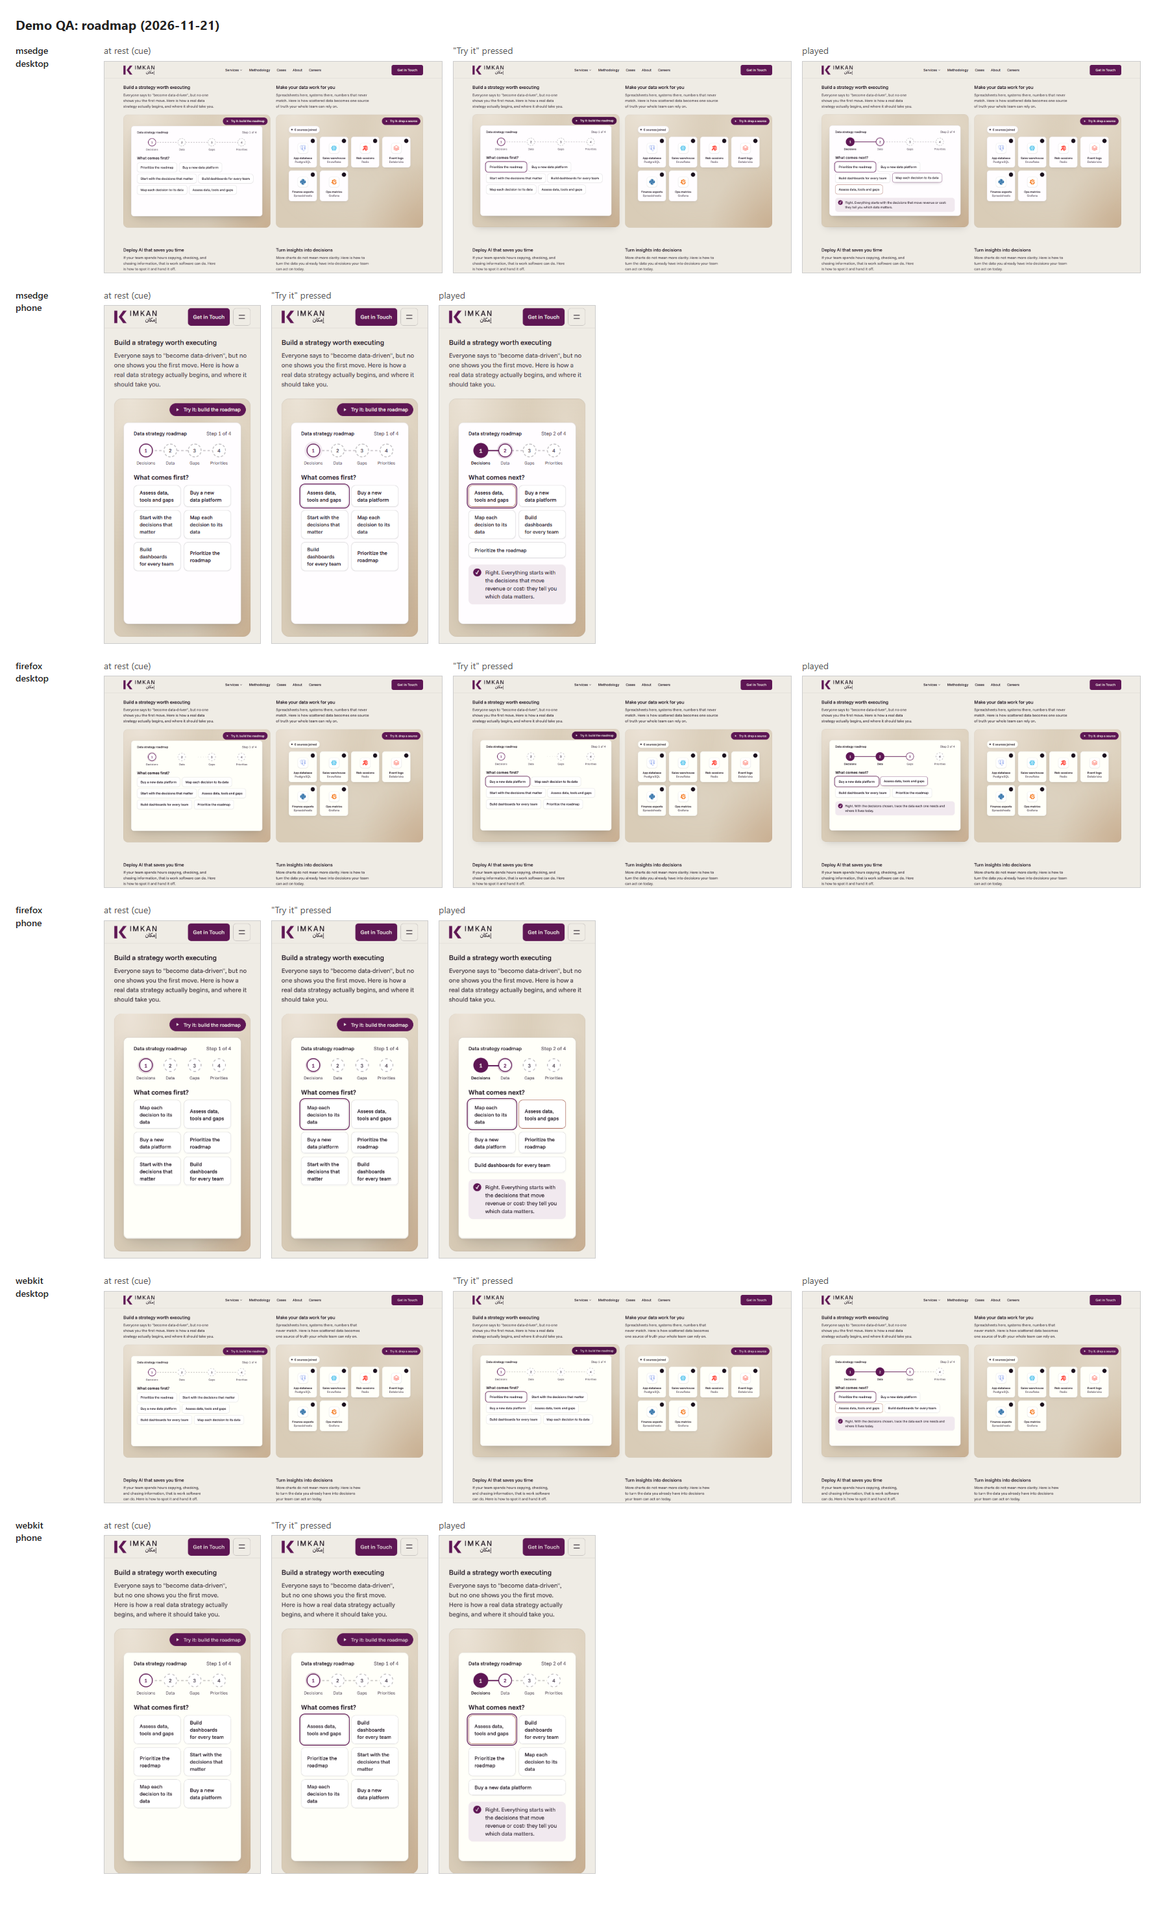
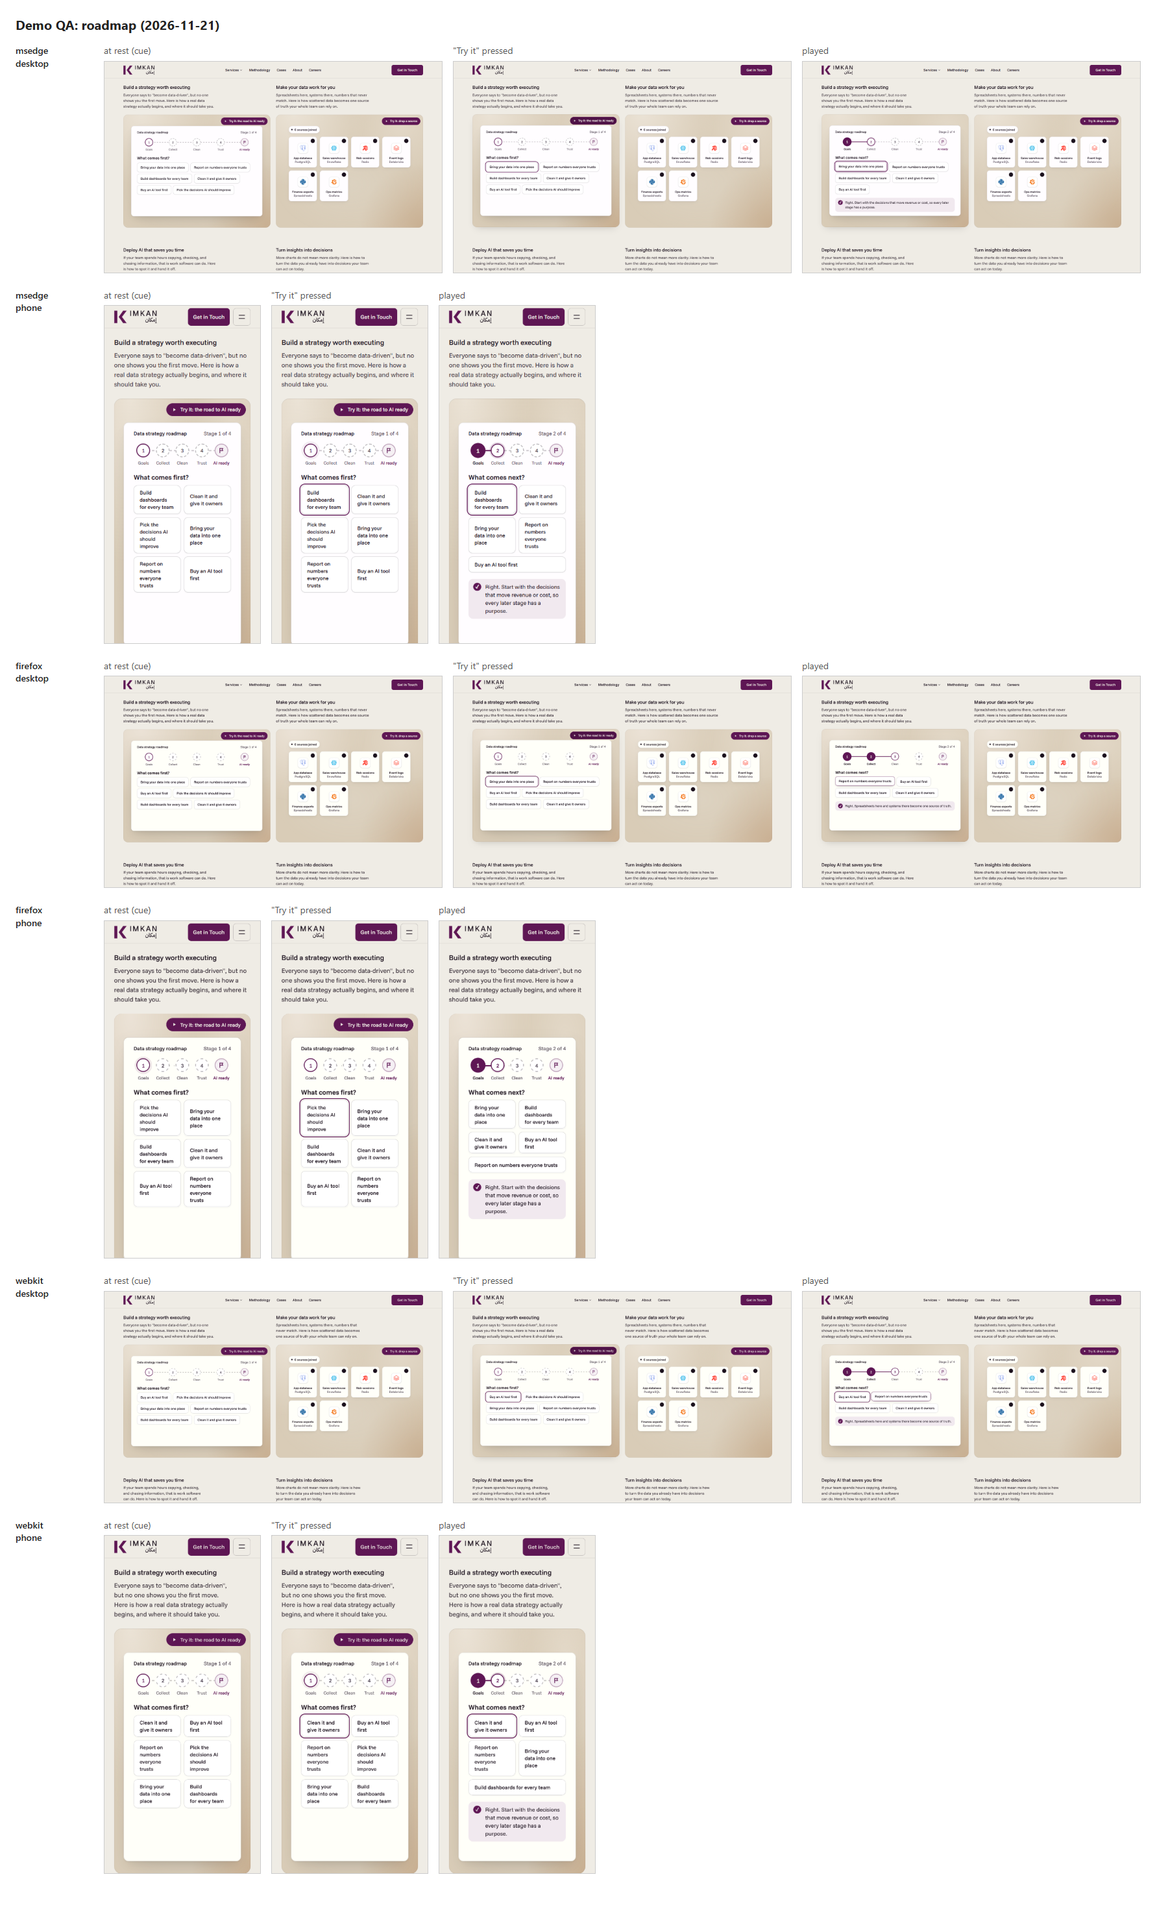
feat(demos): fraud steps take 2 s; roadmap game on the road to AI ready (D-033)
- Fraud: 2 s a step; bar, seconds, total, chip and statuses on one clock.
- Roadmap game: the stages of data maturity before "AI ready" (Goals,
  Collect, Clean, Trust), ending at a fixed AI-ready flag; traps "Buy an AI
  tool first" and "Build dashboards for every team". Wording 113 to 115.

diff --git a/site/public/scripts/play/roadmap.js b/site/public/scripts/play/roadmap.js
@@ -1,34 +1,45 @@
 // "Build a strategy worth executing", round 4 (Felipe, 2026-11-21: "make it a fun exercise ... connect different
 // activities to the right order in the roadmap, so they can learn what things should go first and why").
-// A small game: four empty stops on a track, six activity cards (the page's four steps and two traps). The prompt
+// A small game: four empty stops on a track that ends at "AI ready", six cards (four stages and two traps). The prompt
 // asks what comes first, then next; a right card flies to its stop and the track fills; a wrong one shakes and stays,
 // a trap is ruled out. Every pick gets a one-line reason. Four stops filled: "Roadmap complete", in how many picks,
 // and "Play again". The card never changes height: a card that leaves the tray keeps its place.
-// Without scripts the kit's checklist shows as before. The four steps are the page's own; every other word is a
+// Without scripts the kit's checklist shows as before. The title is the page's own; every other word is a
 // TODO(wording) proposal, pending Felipe.
 import { own, cue, reduced } from './lib.js';
 
-// TODO(wording): proposed, pending Felipe (the step labels are read from the page)
+// The stages of data maturity on the way to "AI ready" (Felipe, 2026-11-21: "what you need to do before getting to
+// AI ready, all the things that need to happen before that, in order"). The track ends at a fixed flag, AI ready.
+// TODO(wording): proposed, pending Felipe
 const STEPS = [
-  { short: 'Decisions', right: 'Right. Everything starts with the decisions that move revenue or cost: they tell you which data matters.' },
-  { short: 'Data', right: 'Right. With the decisions chosen, trace the data each one needs and where it lives today.', early: 'Not yet. You cannot map data to decisions you have not chosen.' },
-  { short: 'Gaps', right: 'Right. Now check that data: its quality, who can reach it and which tools are missing.', early: 'Not yet. Check the data once you know which data each decision needs.' },
-  { short: 'Priorities', right: 'Right. With the gaps known, rank the work by impact and effort, and pick your first move.', early: 'Not yet. Rank the work once you know the gaps and what it takes to close them.' },
+  { short: 'Goals', label: 'Pick the decisions AI should improve',
+    right: 'Right. Start with the decisions that move revenue or cost, so every later stage has a purpose.' },
+  { short: 'Collect', label: 'Bring your data into one place',
+    right: 'Right. Spreadsheets here and systems there become one source of truth.',
+    early: 'Not yet. Choose the decisions first, so you know which data to bring together.' },
+  { short: 'Clean', label: 'Clean it and give it owners',
+    right: 'Right. AI learns from your data, so it has to be accurate, complete and looked after by someone.',
+    early: 'Not yet. Clean the data once it sits in one place, or you clean it twice.' },
+  { short: 'Trust', label: 'Report on numbers everyone trusts',
+    right: 'Right. When the team trusts the reports, the data is ready to learn from. You are AI ready.',
+    early: 'Not yet. Reports on data nobody has checked only spread its mistakes.' },
 ];
 const TRAPS = [
-  { label: 'Buy a new data platform', why: 'Not a first step. A tool comes after you know the decisions and data it has to serve.' },
+  { label: 'Buy an AI tool first', why: 'Not a first step. A tool cannot fix data you have not collected or cleaned.' },
   { label: 'Build dashboards for every team', why: 'Not a step. More charts do not mean more clarity: start from the decisions they should support.' },
 ];
+const N = STEPS.length;
 const T = {
-  invite: 'Try it: build the roadmap',
+  invite: 'Try it: the road to AI ready',
   first: 'What comes first?',
   next: 'What comes next?',
-  of: (n) => `Step ${n} of 4`,
-  done: 'Roadmap complete',
-  tries: (n) => (n === 4 ? 'Four picks, four right. A clean run.' : `Done in ${n} picks. Every wrong turn is one a real project avoids.`),
+  of: (n) => `Stage ${n} of ${N}`,
+  goal: 'AI ready',
+  done: 'You are AI ready',
+  tries: (n) => (n === N ? `${N} picks, ${N} right. A clean run.` : `Done in ${n} picks. Every wrong turn is one a real project avoids.`),
   again: 'Play again',
   pick: 'Pick the card that comes next.',
-  inOrder: 'Your roadmap, in order.',
+  inOrder: 'Your road to AI ready, in order.',
 };
 
 const shuffle = (a) => { const b = [...a]; for (let i = b.length - 1; i > 0; i--) { const j = Math.floor(Math.random() * (i + 1)); [b[i], b[j]] = [b[j], b[i]]; } return b; };
@@ -37,13 +48,11 @@ export default function init(frame) {
   const kit = frame.querySelector('[data-ui="checklist"]');
   if (!kit) return;
   const title = kit.querySelector('.ui-title')?.textContent.trim() || '';
-  const labels = [...kit.querySelectorAll('.ui-check__label')].map((l) => l.textContent.trim());
-  if (labels.length !== 4) return;
   own(kit);
   for (let el = kit; el && el !== frame; el = el.parentElement) el.removeAttribute('aria-hidden');
 
-  // the six cards: the four steps (by their order, 0..3) and the two traps
-  const CARDS = [...labels.map((label, i) => ({ id: `s${i}`, label, step: i })), ...TRAPS.map((t, i) => ({ id: `t${i}`, label: t.label, trap: i }))];
+  // the six cards: the four stages (by their order) and the two traps
+  const CARDS = [...STEPS.map((st, i) => ({ id: `s${i}`, label: st.label, step: i })), ...TRAPS.map((t, i) => ({ id: `t${i}`, label: t.label, trap: i }))];
 
   const box = document.createElement('div');
   box.className = 'ui ui-panel play-game';
@@ -51,6 +60,7 @@ export default function init(frame) {
     <div class="play-game__head"><div class="ui-title">${title}</div><span class="ui-spacer"></span><div class="ui-meta" data-game-count></div></div>
     <ol class="play-game__track" aria-label="${title}">
       ${STEPS.map((s, i) => `<li class="play-game__stop" data-stop="${i}"><span class="play-game__dot">${i + 1}</span><span class="play-game__name">${s.short}</span></li>`).join('')}
+      <li class="play-game__stop play-game__goal"><span class="play-game__dot" aria-hidden="true"><svg viewBox="0 0 16 16"><path d="M4 14V2.5M4 3h7.5l-1.8 2.6L11.5 8.2H4" fill="none" stroke="currentColor" stroke-width="1.6" stroke-linejoin="round" stroke-linecap="round"/></svg></span><span class="play-game__name">${T.goal}</span></li>
     </ol>
     <p class="play-game__ask" aria-hidden="true"></p>
     <div class="play-game__tray" role="group"></div>
@@ -62,7 +72,7 @@ export default function init(frame) {
     </div>`;
   kit.replaceWith(box);
   const track = box.querySelector('.play-game__track');
-  const stops = [...box.querySelectorAll('.play-game__stop')];
+  const stops = [...box.querySelectorAll('.play-game__stop:not(.play-game__goal)')];
   const tray = box.querySelector('.play-game__tray');
   const ask = box.querySelector('.play-game__ask');
   const say = box.querySelector('.play-game__say');
@@ -75,9 +85,10 @@ export default function init(frame) {
 
   const paint = () => {
     stops.forEach((s, i) => { s.classList.toggle('is-done', i < at); s.classList.toggle('is-next', i === at); });
-    track.style.setProperty('--p', `${(Math.min(at, 3) / 3) * 100}%`);
-    count.textContent = T.of(Math.min(at + 1, 4));
-    ask.textContent = at >= 4 ? T.inOrder : at === 0 ? T.first : T.next;
+    track.style.setProperty('--p', `${(at / N) * 100}%`);
+    box.classList.toggle('is-ready', at >= N);
+    count.textContent = T.of(Math.min(at + 1, N));
+    ask.textContent = at >= N ? T.inOrder : at === 0 ? T.first : T.next;
   };
   const deal = () => {
     at = 0; picks = 0;
@@ -143,7 +154,7 @@ export default function init(frame) {
     box.classList.remove('is-busy');
     at++;
     paint();
-    if (at === 4) {
+    if (at === N) {
       box.classList.add('is-complete');
       tries.textContent = T.tries(picks);
       setTimeout(() => {

diff --git a/site/public/styles/play.css b/site/public/styles/play.css
@@ -207,10 +207,10 @@ html .play-chat__send:focus-visible { outline: 2px solid var(--p-action); outlin
 html .panel[data-play="roadmap"] > .stage > * { max-width: 560px; }
 html .play-game { --no: #9a4a3a; display: flex; flex-direction: column; inline-size: 100%; padding: var(--s-4) var(--s-5) var(--s-4); color: var(--p-ink); font-family: var(--font-text); }
 html .play-game__head { display: flex; align-items: center; gap: var(--s-2); }
-html .play-game__track { position: relative; display: grid; grid-template-columns: repeat(4, minmax(0, 1fr)); margin: var(--s-4) 0 0; padding: 0; list-style: none; }
-html .play-game__track::before, html .play-game__track::after { content: ""; position: absolute; inset-block-start: 16px; inset-inline-start: 12.5%; block-size: 3px; border-radius: 2px; }
-html .play-game__track::before { inline-size: 75%; background: repeating-linear-gradient(90deg, color-mix(in oklab, var(--p-ink) 22%, transparent) 0 6px, transparent 6px 11px); }
-html .play-game__track::after { inline-size: calc(var(--p, 0%) * 0.75); background: var(--p-action); transition: inline-size 600ms cubic-bezier(0.22, 1, 0.36, 1); }
+html .play-game__track { position: relative; display: grid; grid-template-columns: repeat(5, minmax(0, 1fr)); margin: var(--s-4) 0 0; padding: 0; list-style: none; }
+html .play-game__track::before, html .play-game__track::after { content: ""; position: absolute; inset-block-start: 16px; inset-inline-start: 10%; block-size: 3px; border-radius: 2px; }
+html .play-game__track::before { inline-size: 80%; background: repeating-linear-gradient(90deg, color-mix(in oklab, var(--p-ink) 22%, transparent) 0 6px, transparent 6px 11px); }
+html .play-game__track::after { inline-size: calc(var(--p, 0%) * 0.8); background: var(--p-action); transition: inline-size 600ms cubic-bezier(0.22, 1, 0.36, 1); }
 html .play-game__stop { position: relative; z-index: 1; display: grid; justify-items: center; gap: 6px; }
 html .play-game__dot {
   display: grid; place-items: center; inline-size: 34px; block-size: 34px; border-radius: 50%; border: 2px dashed color-mix(in oklab, var(--p-ink) 30%, transparent);
@@ -220,11 +220,17 @@ html .play-game__name { font-size: 12px; line-height: 16px; color: var(--u-muted
 html .play-game__stop.is-next .play-game__dot { border-style: solid; border-color: var(--p-action); color: var(--p-action); animation: play-game-wait 1600ms ease-in-out infinite; }
 html .play-game__stop.is-done .play-game__dot { border: 2px solid var(--p-action); background: var(--p-action); color: var(--p-action-ink); transform: scale(1.1); animation: none; }
 html .play-game__stop.is-done .play-game__name { color: var(--p-ink); font-weight: 600; }
+/* the destination: a flag at the end of the track, lit when the four stages are in place */
+html .play-game__goal .play-game__dot { border-style: solid; border-color: color-mix(in oklab, var(--p-action) 35%, transparent); background: color-mix(in oklab, var(--p-action) 6%, #fff); color: var(--p-action); }
+html .play-game__goal .play-game__dot svg { inline-size: 16px; block-size: 16px; }
+html .play-game__goal .play-game__name { color: var(--p-action); font-weight: 600; }
+html .play-game.is-ready .play-game__goal .play-game__dot { border-color: var(--p-action); background: var(--p-action); color: var(--p-action-ink); transform: scale(1.18); box-shadow: 0 0 0 6px color-mix(in oklab, var(--p-action) 16%, transparent); }
 @keyframes play-game-wait { 0%, 100% { box-shadow: 0 0 0 0 color-mix(in oklab, var(--p-action) 35%, transparent); } 50% { box-shadow: 0 0 0 7px color-mix(in oklab, var(--p-action) 0%, transparent); } }
 html .play-game.is-complete .play-game__stop .play-game__dot { animation: play-game-cheer 700ms cubic-bezier(0.34, 1.6, 0.64, 1) both; }
 html .play-game.is-complete .play-game__stop:nth-child(2) .play-game__dot { animation-delay: 90ms; }
 html .play-game.is-complete .play-game__stop:nth-child(3) .play-game__dot { animation-delay: 180ms; }
 html .play-game.is-complete .play-game__stop:nth-child(4) .play-game__dot { animation-delay: 270ms; }
+html .play-game.is-complete .play-game__stop:nth-child(5) .play-game__dot { animation-delay: 360ms; }
 @keyframes play-game-cheer { 0% { transform: scale(1.1); } 40% { transform: scale(1.35) translateY(-4px); } 100% { transform: scale(1.1); } }
 html .play-game__ask { margin: var(--s-4) 0 var(--s-2); font-size: 17px; line-height: 24px; font-weight: 600; }
 html .play-game__tray { display: flex; flex-wrap: wrap; gap: 8px; }

diff --git a/site/tests/play.spec.ts b/site/tests/play.spec.ts
@@ -4,14 +4,14 @@ import AxeBuilder from '@axe-core/playwright';
 // The fraud frame (#platform) as a triage demo (D-033, revised 2026-11-21): four open alerts; picking one runs the
 // detection and ends on a verdict (risk, Escalate or Clear); a decision takes the alert out and starts the next;
 // an empty queue shows a summary, then the four alerts come back by themselves (no "Reset demo", 2026-11-21).
-// Each step of a run takes 3 s, so the whole-queue test runs with reduced motion (the run completes at once).
+// Each step of a run takes 2 s, so the whole-queue test runs with reduced motion (the run completes at once).
 
 const app = (page: Page) => page.locator('#platform .app');
 const rows = (page: Page) => page.locator('#platform [data-row]:not(.play-history)');
 
 test.describe('fraud triage demo (#platform)', () => {
   test.beforeEach(async ({ page }) => {
-    test.setTimeout(60_000);                 // a run is five steps of 3 s
+    test.setTimeout(60_000);                 // a run is five steps of 2 s
     await page.goto('/');
     await page.locator('#platform').scrollIntoViewIfNeeded();
     await expect(page.locator('#platform .play-cue__btn')).toBeVisible({ timeout: 20000 });
@@ -61,7 +61,7 @@ test.describe('fraud triage demo (#platform)', () => {
   test('at rest the run plays at the slow pace and says so; every waiting step is Queued', async ({ page }) => {
     await expect(page.locator('#platform .play-slow')).toBeVisible({ timeout: 8000 });
     await expect(page.locator('#platform .ui-pipe__time').last()).toHaveText('Queued');
-    // after about 2 s of a 3 s step, the run is still on its first step
+    // about 1.5 s into a 2 s step, the run is still on its first step
     await page.waitForTimeout(1500);
     expect(await page.locator('#platform .ui-pipe__step.is-done').count()).toBeLessThan(2);
   });

diff --git a/site/public/scripts/play/anomalies.js b/site/public/scripts/play/anomalies.js
@@ -6,7 +6,7 @@
 //   - the decision takes the alert out of the queue, "n left to review" counts down, the next alert starts by itself;
 //   - with the queue empty, a summary says how many were escalated and cleared, and a few seconds later the four
 //     alerts come back by themselves (no "Reset demo", Felipe 2026-11-21). Picking another alert restarts the run.
-//   - each step of the run takes 3 s (Felipe, 2026-11-21: slower, so it can be followed). The seconds shown stay the
+//   - each step of the run takes 2 s (Felipe, 2026-11-21: slow enough to follow). The seconds shown stay the
 //     system's own (the case study: detection in under 10 seconds), so the run says it is in slow motion.
 //   - at rest our own run plays, at the same pace, alert after alert (the kit's run was much faster); the visitor's
 //     first pick takes over.
@@ -34,7 +34,7 @@ const RISK = {
   'Repeated failed PIN entries': ['low', 0.31],
 };
 const OPEN = 4;
-const STEP_MS = 3000;   // each step of the run (Felipe, 2026-11-21)
+const STEP_MS = 2000;   // each step of the run (Felipe, 2026-11-21: 2 s)
 const REFILL_MS = 5000; // the summary stays this long, then the queue fills again   // the first four rows are the open alerts in the markup (New, New, New, Needs you)
 
 export default function init(app) {

diff --git a/site/tests/play-all.spec.ts b/site/tests/play-all.spec.ts
@@ -125,7 +125,8 @@ test.describe('framed demos', () => {
     await cueLeaves(f);
     await f.locator('[data-card="s3"]').click();
     await expect(f.locator('.play-game__stop.is-done')).toHaveCount(4);
-    await expect(f.locator('.play-game__done')).toContainText('Roadmap complete');
+    await expect(f.locator('.play-game__done')).toContainText('You are AI ready');
+    await expect(f.locator('.play-game')).toHaveClass(/is-ready/);
     await expect(f.locator('[data-game-tries]')).toContainText('6 picks');
     await f.locator('.play-game__again').click();
     await expect(f.locator('.play-game__stop.is-done')).toHaveCount(0);

diff --git a/Documentation/wording-changes.md b/Documentation/wording-changes.md
@@ -123,6 +123,9 @@ Columns: **Page** where it appears, **Original** text, **New** text, **Why**, an
 | 110 | Home, Deploy AI card (dev branch `feature/interactive-demos` only) | (none: new) | Copy invoice fields into the system (Copying, 3 h a week) / Chase approvals by email (Chasing, 4 h) / Check contracts for renewal dates (Checking, 2 h) / Negotiate terms with a key client (Judgement) / Copy email requests into the tracker (Copying, 2 h) | The five tasks. Copying, checking, chasing are the card's own words. The hours are illustrative, not a client's figures | pending |
 | 111 | Home, Deploy AI card (dev branch `feature/interactive-demos` only) | (none: new) | Approval reminders sent / To everyone who has not replied yet | The agent's result for the chasing task (the other three results are the page's own notes) | pending |
 | 112 | Home, Deploy AI card (dev branch `feature/interactive-demos` only) | (none: new) | Keep this one: it needs a person's judgement. The agent takes the rest so your team has time for it. / N hours back every week, for the work only people can do. | The judgement task's answer and the finish | pending |
+| 113 | Home, roadmap game, stages to AI ready (replaces rows 104 to 108) (dev branch `feature/interactive-demos` only) | (none: new) | Try it: the road to AI ready / Stage 1 of 4 / Goals / Collect / Clean / Trust / AI ready / You are AI ready / Your road to AI ready, in order. | The cue, count, stop names, destination and finish (Felipe: stages of data maturity before AI ready) | pending |
+| 114 | Home, roadmap game (dev branch `feature/interactive-demos` only) | (none: new) | Pick the decisions AI should improve / Bring your data into one place / Clean it and give it owners / Report on numbers everyone trusts / Buy an AI tool first | The four stage cards and the new trap card | pending |
+| 115 | Home, roadmap game (dev branch `feature/interactive-demos` only) | (none: new) | Right. Start with the decisions that move revenue or cost, so every later stage has a purpose. / Right. Spreadsheets here and systems there become one source of truth. / Right. AI learns from your data, so it has to be accurate, complete and looked after by someone. / Right. When the team trusts the reports, the data is ready to learn from. You are AI ready. / Not yet. Choose the decisions first, so you know which data to bring together. / Not yet. Clean the data once it sits in one place, or you clean it twice. / Not yet. Reports on data nobody has checked only spread its mistakes. / Not a first step. A tool cannot fix data you have not collected or cleaned. | Why each pick is right, too early or a trap (the second echoes the page's "one source of truth") | pending |
 
 Rows 59 to 63 (the search demo's words), 76 to 82 and 96 to 98, 102 to 103 (older roadmaps), the notes demo's words and the console's words no longer show: those demos were replaced on 2026-11-21 (rows 87 onwards).
 

diff --git a/DECISION_TRACKER.md b/DECISION_TRACKER.md
@@ -170,3 +170,9 @@ Approved by Felipe ("Pick the next step", "Hand it off", push with the rest):
 - **Deploy AI that saves you time:** a team's week of five tasks, tagged copying, checking, chasing (the card's words) or judgement. "Hand off" flies a task's hours into an hours-back meter, and the agent shows the work done (the page's own notes). The judgement task stays with the team. The hours are illustrative.
 
 Both cards keep their tallest height. New text: wording changes 104 to 112, pending.
+
+### 2026-11-21: fraud steps 2 s; roadmap game on data maturity (D-033)
+- **Fraud demo:** each step takes 2 s. The bar, the seconds, the total, the chip and the statuses still share one clock.
+- **Roadmap game:** now the road to "AI ready": Goals, Collect, Clean, Trust, then a fixed AI-ready flag. Traps: "Buy an AI tool first" and "Build dashboards for every team".
+
+New text: wording changes 113 to 115 (they replace 104 to 108), pending.
